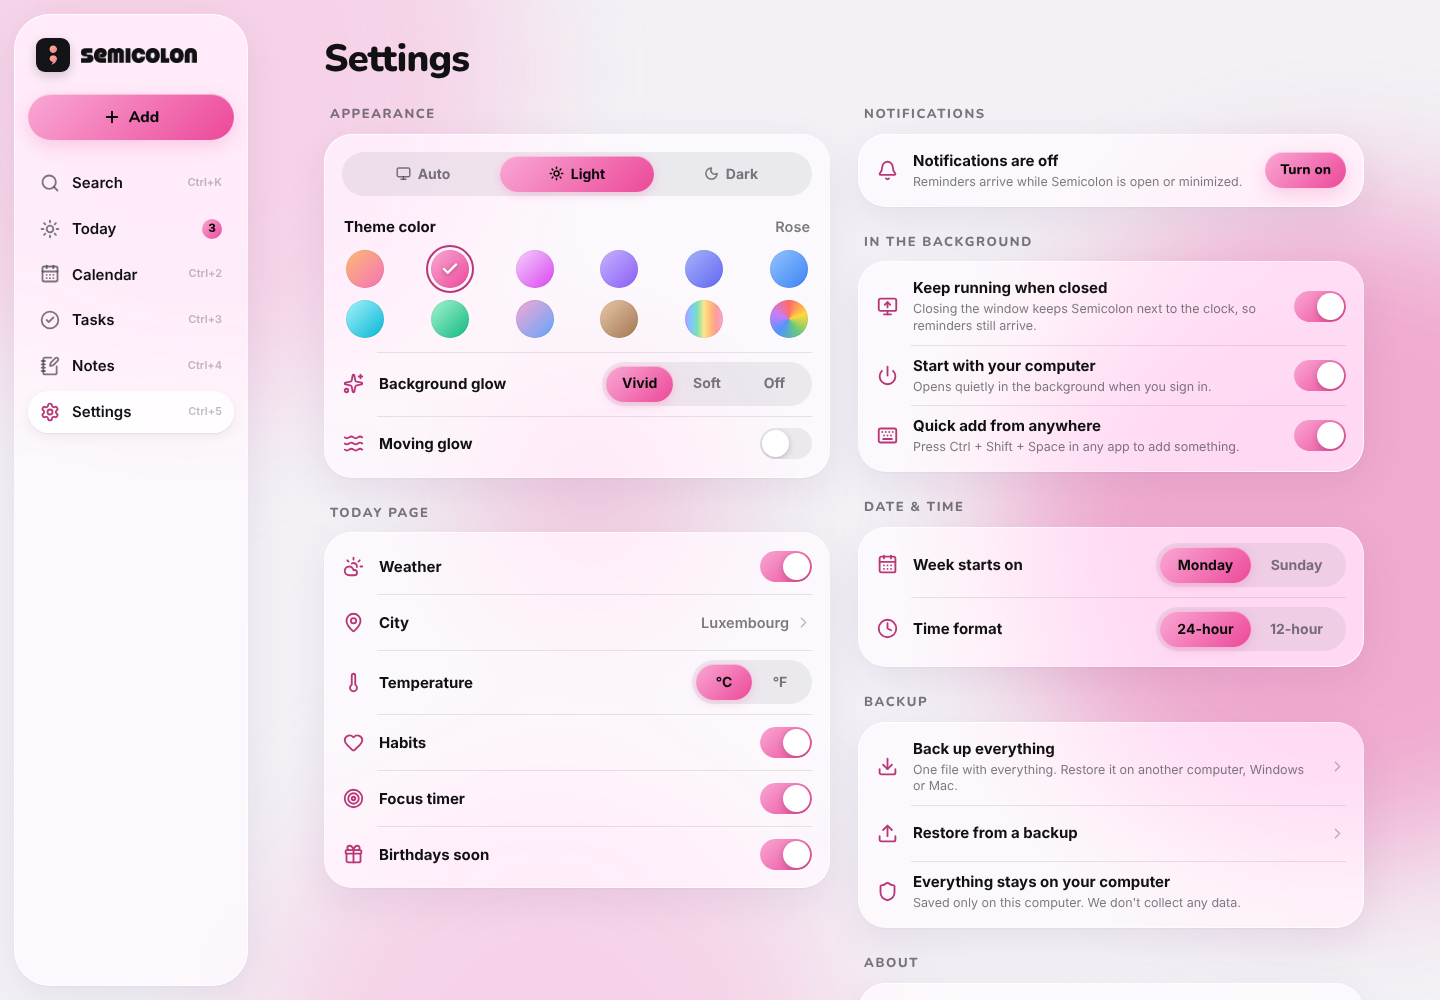
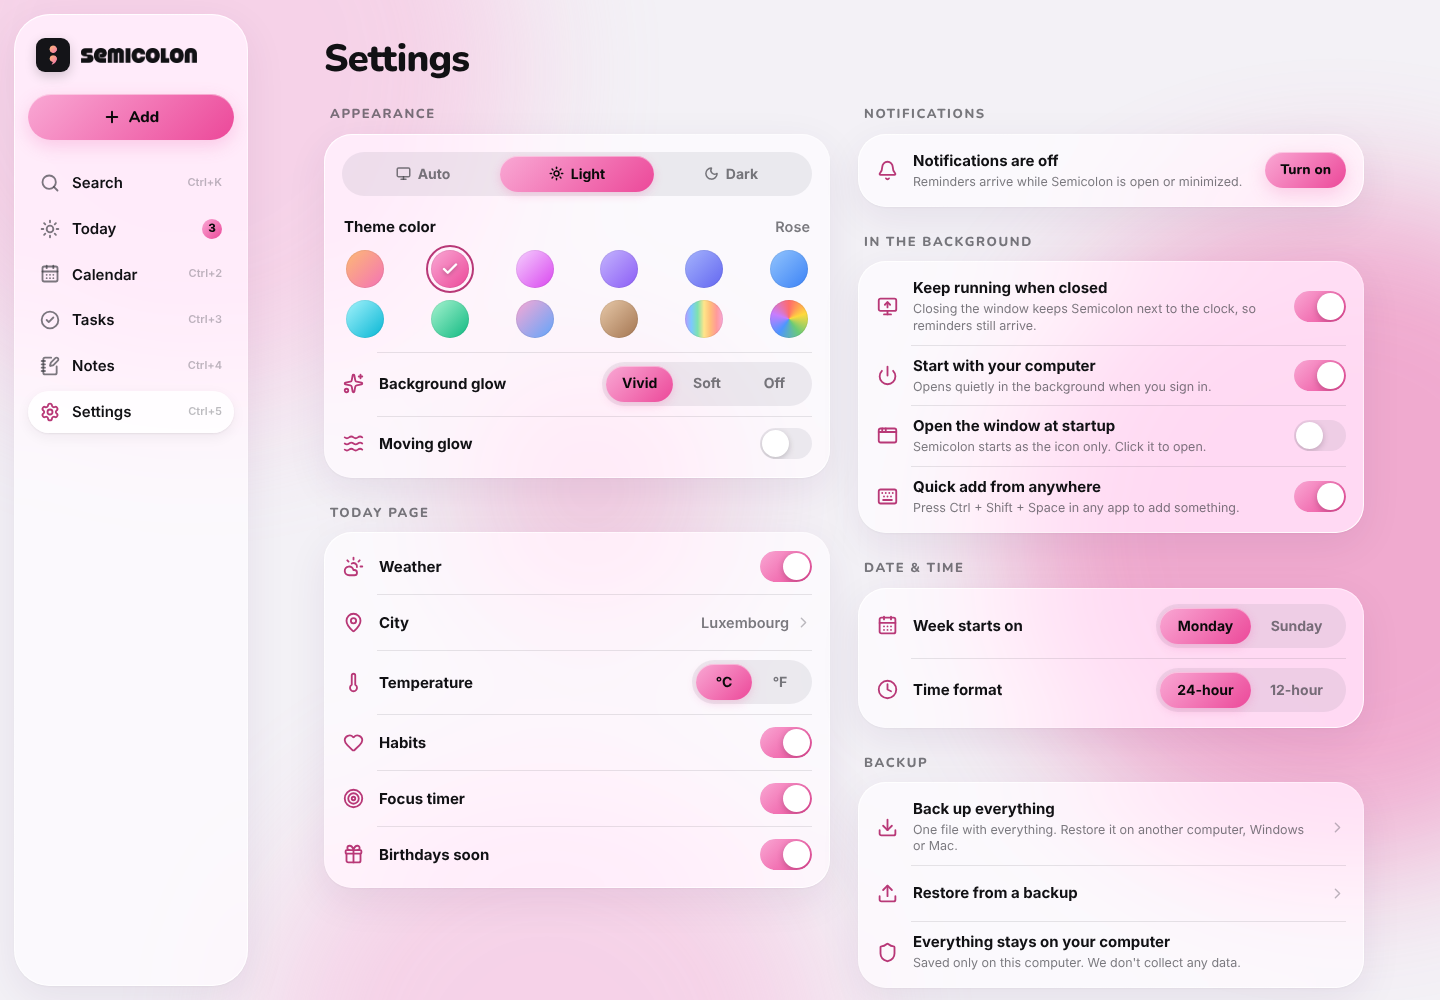
Add files via upload

Changed region(s): [[0.5938, 0.62, 0.9688, 0.992], [0.5938, 0.403, 0.9688, 0.589]]

diff --git a/README.md b/README.md
@@ -28,7 +28,8 @@
 - **Reminders**: notifications for tasks, events and birthdays, even when the window is closed.
 - **Search everything**: press **Ctrl + K** (**⌘ K** on Mac) to find any task, event, birthday, list or note.
 - **Quick add from anywhere**: press **Ctrl + Shift + Space** (**⌘ ⇧ Space** on Mac) in any app, type "Dentist tomorrow 3pm", and it's added.
-- **Runs quietly in the background**: closing the window keeps Semicolon next to the clock (Windows) or in the menu bar (Mac), and it can start with your computer.
+- **Runs quietly in the background**: closing the window keeps Semicolon next to the clock (Windows) or in the menu bar (Mac). Click the icon to open it again, or right-click for Quick add and Quit.
+- **Starts with your computer** (optional): Semicolon starts quietly as the icon when you sign in, or opens its window if you prefer. Choose in **Settings → In the background**.
 - **Make it yours**: light and dark mode, 11 themes plus your own colors, and a soft moving glow.
 - **Speaks your language**: English, Français, Português, Deutsch and Español, picked from your computer's language.
 - **Updates itself**: when a new version is out, an Update button appears in the app.
@@ -72,6 +73,13 @@ Everything is saved only on your computer. Semicolon has no account and doesn't 
 The weather uses [Open-Meteo](https://open-meteo.com), and only your city's approximate location is sent.
 
 You can back everything up to one file in **Settings → Backup**, and restore it on another computer, Windows or Mac.
+
+## Closing and quitting
+
+- **Close the window (✕)**: Semicolon keeps running as an icon so your reminders still arrive.
+  You can turn this off in **Settings → In the background → Keep running when closed**.
+- **Quit completely**: right-click the icon and choose **Quit Semicolon** (on Mac you can also press **⌘ Q**).
+  Reminders only arrive while Semicolon is running.
 
 ## Keyboard shortcuts
 
